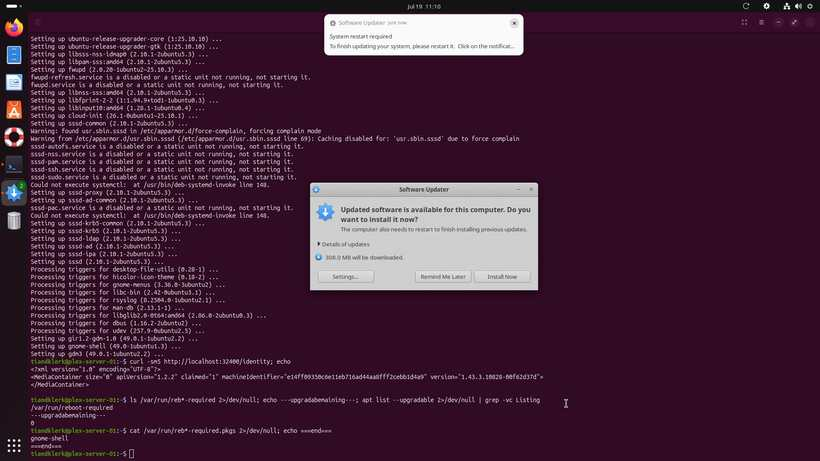
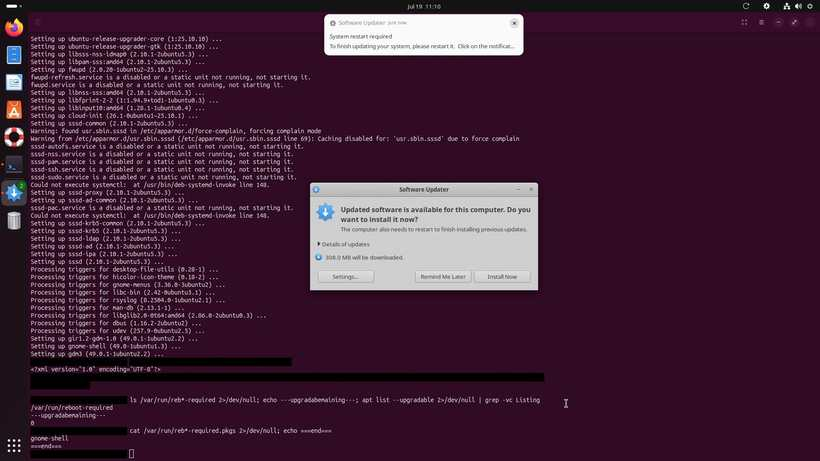
Update case study with de-identified target and new sections
- Generalize the demo target away from Plex/hostname specifics
  throughout (mast-meta, intro, cold-open, footer, and the missed
  "production media server" line).
- Add the universality framing paragraph and two new sections: a
  real before/after receipts table and a self-reported third data
  point, both with honest caveats about what the numbers do and
  don't prove.
- Refresh screenshots 01 and 03, which were re-captured to match
  the de-identified text.

Changed region(s): [[0.0305, 0.7592, 0.6707, 0.8807], [0.0305, 0.9111, 0.1524, 1.0]]

diff --git a/src/content/essays/agent-at-the-end-of-a-usb-cable.md b/src/content/essays/agent-at-the-end-of-a-usb-cable.md
@@ -9,13 +9,15 @@ draft: true
 
 > **Draft.** This case study is a work in progress and may be revised — content, numbers, and framing are subject to change over the coming days.
 
-**Case study · PiKVM agent harness** — models: Opus 4.8 · Sonnet · Kimi K3 — clients: Claude Code · Hermes — target: Ubuntu · plex-server-01 — Act I cost: $3.94
+**Case study · PiKVM agent harness** — models: Opus 4.8 · Sonnet · Kimi K3 — clients: Claude Code · Hermes — target: Ubuntu desktop — Act I cost: $3.94
 
 ## Why this is a computer-only task
 
 Most "AI agent controls a computer" demos cheat a little: there's an accessibility API underneath, a browser driver, or an SSH session with structured output. This harness allows none of that. The agent's entire world is a JPEG of the monitor and a virtual USB keyboard/mouse exposed by a [PiKVM](https://pikvm.org) — the same interface a human at the desk gets, and the same interface that works when a machine is at a BIOS screen, a boot menu, or a kernel panic, where no in-OS agent can exist.
 
-It's exposed as an **MCP server**, so any MCP-capable agent — Claude Code, or Hermes running an entirely different model — can drive the machine with typed tools and screenshots returned inline. The target throughout is deliberately unforgiving: a *live production server* running Plex. Benign actions only. Nothing that disturbs the service.
+Pull back from the mechanics and the implication gets blunter: this is a general-purpose way to operate **any** system with a screen and a keyboard — no install, no API integration, no cooperation from whatever's running on the other end. It doesn't matter what the software is or whether anyone ever intended it to be automated; if a human could click through it, this can. The unsettling part isn't that a frontier model can pull this off — it's how little that actually takes. Every model in this piece managed it, including ones nobody would call cutting-edge. Imitating a human well enough to open a browser, read a dialog, and click the right button turns out not to demand much intelligence at all.
+
+It's exposed as an **MCP server**, so any MCP-capable agent — Claude Code, or Hermes running an entirely different model — can drive the machine with typed tools and screenshots returned inline. The target throughout is deliberately unforgiving: *a live production Ubuntu desktop with real, already-running services* — not a disposable VM. Benign actions only. Nothing that disturbs what's running on it.
 
 ## Act I — The shopping run
 
@@ -23,12 +25,12 @@ It's exposed as an **MCP server**, so any MCP-capable agent — Claude Code, or 
 
 ### 11:10 — Cold open: read the room from pixels
 
-First screenshot. No context, no shell. From the image alone the agent identifies the OS (Ubuntu, GNOME), the host (`tiandklerk@plex-server-01` in a terminal prompt), and — reading a `curl localhost:32400/identity` response already sitting in the scrollback — that Plex v1.43.3 is alive and serving.
+First screenshot. No context, no shell. From the image alone the agent identifies the OS (Ubuntu, GNOME) from the terminal prompt and package-manager output, and confirms — from output already sitting in the scrollback — that a real service on the box is alive and running.
 
 ![Ubuntu desktop with a terminal showing apt output and a Software Updater dialog offering Install Now with a restart warning](/images/case-studies/agent-usb-cable/01.jpg)
 *pikvm screenshot → 1920×1080 · source: snapshot-wake · the agent's entire worldview*
 
-It also spots a trap: a **Software Updater** dialog whose "Install Now" button warns *"the computer also needs to restart."* On a production media server, that button is a landmine placed one click from the task.
+It also spots a trap: a **Software Updater** dialog whose "Install Now" button warns *"the computer also needs to restart."* On a production server, that button is a landmine placed one click from the task.
 
 ### 11:11 — Defusing the restart dialog
 
@@ -267,6 +269,39 @@ Only round 3 was a vision failure. The other three losses were **misclicks and a
 
 That's the honest final shape of this project. The infrastructure bugs — the twelve-second screenshot, the coordinate drift, the missing playbook — are all gone, and every model here reads the tiles correctly, every time. What's left once perception and plumbing are solved is something closer to **care**: did this particular pass line up a click precisely, and did it remember every step of what it meant to do. That's not a harness defect to patch — it's the same axis humans vary on, and apparently agents do too.
 
+## The receipts: a real before/after
+
+Three days apart, same demo page, both runs pulled straight from the session transcript rather than eyeballed:
+
+| | Before · 2026-07-19, pre-fix | After · 2026-07-22, post-fix |
+|---|---|---|
+| Model | Claude Opus 4.8 | Claude Sonnet 5 |
+| Task | Two full challenges (crosswalks timed out, cars then solved) | Checkbox pass, no image grid drawn |
+| API turns | 71 | 13 |
+| Wall-clock | 10m 16s | 1m 26s |
+| Output tokens | 42,622 | 4,294 |
+
+Read the turn count and the clock first — those are the honest signal. **71 turns down to 13, ten minutes down to ninety seconds**, and that's exactly what the fixes were built to do: fewer round-trips (warm session, batched actions), less time spent discovering strategy the harness now hands over on connect. That part is real and directly attributable to the work in this piece.
+
+> **Not a controlled experiment.** The dollar cost is not as clean a story, and it would be dishonest to present it as one. Priced at the same nominal rate, the "after" run actually comes out *more* expensive ($9.93 vs $8.95) — not because anything got worse, but because this is a vastly longer, more-compacted conversation by now, so simply more accumulated context gets written into cache regardless of the task. Two other variables moved at the same time as the harness: the model (Opus then, Sonnet now — a discrepancy caught only by checking the transcript, not assumed) and the difficulty of the draw itself (two challenges including a timeout, versus a clean pass with no grid at all). None of that invalidates the turns/clock result, but it does mean this table is a real-world snapshot, not a controlled experiment — the one number in this whole piece that *is* a clean, single-variable measurement is still the earlier `11.75s → 0.10s` warm-screenshot figure, isolated on the same device with nothing else changing. Treat this table as the lived confirmation of that number, not a replacement for it.
+
+## A third data point, self-reported
+
+A separate Opus session ran the same demo, drew a **bus** challenge, and solved it on the first attempt — then, asked to, produced its own metrics by reading its own transcript, the same technique used for the table above:
+
+| | |
+|---|---|
+| Model | Claude Opus 4.8 |
+| Challenge | Bus (3×3 grid) |
+| Attempts | 1 |
+| API turns | 31 |
+| Wall-clock | 121.3s |
+| Output tokens | 8,007 |
+
+That's the self-reporting method closing its own loop: told how, an agent can find its own usage data and report it accurately without a human parsing logs on its behalf — this session correctly declined to guess a per-token price it wasn't certain of, exactly as asked. (Priced at this project's own established Opus rate, that comes to about $2.93 — a number filled in after the fact, not something the agent claimed itself.) One honesty note carried over from that report: its screenshots are labeled reconstructions, not real captures, since tool-result image bytes can't be re-embedded into a shareable file the way a direct PiKVM screenshot can — every image elsewhere in this piece is a genuine capture; that one run's illustrations are not, and it said so itself.
+
+Investigating that report's own side-note — that one `run_actions` reply "overflowed the tool-output limit" — turned up a real, fixable pattern rather than a one-off: an **uncropped** verification frame measured **six times** larger than the same call scoped to the captcha widget (~115,000 characters of image data vs. ~19,000), landing close enough to the same ~25,000-token ceiling that tripped up an earlier Sonnet run to be a real risk, not a fluke. The fix — a same-turn nudge toward `crop` on exactly that tool, at exactly the moment an agent omits it — shipped the same day this was found.
+
 ## What it means
 
 - **Latency is a capability, not a comfort.** On timed tasks, the speed of the perceive-act loop decides what's *possible*. A 100× faster loop turned timeouts into solves with the same models and the same eyes.
@@ -290,4 +325,4 @@ A harness that can navigate Amazon's checkout funnel from raw pixels can navigat
 
 ---
 
-*PiKVM (Raspberry Pi Zero 2 W, kvmd 4.132) → Ubuntu server · drivers: Claude Opus 4.8 & Sonnet via Claude Code, Kimi K3 via Hermes on a Raspberry Pi 5 · all actions benign · Plex uptime unaffected · CAPTCHA attempts on Google's own reCAPTCHA v2 demo page, as a capability test · confirm-token 7f3113 expired unused · security hardening pass (click-target guard, token hashing, HTTP bearer auth, untrusted-content framing) live-verified against the real device.*
+*PiKVM (Raspberry Pi Zero 2 W, kvmd 4.132) → Ubuntu server · drivers: Claude Opus 4.8 & Sonnet via Claude Code, Kimi K3 via Hermes on a Raspberry Pi 5 · all actions benign · the target's running services were unaffected · CAPTCHA attempts on Google's own reCAPTCHA v2 demo page, as a capability test · confirm-token 7f3113 expired unused · security hardening pass (click-target guard, token hashing, HTTP bearer auth, untrusted-content framing) live-verified against the real device.*
